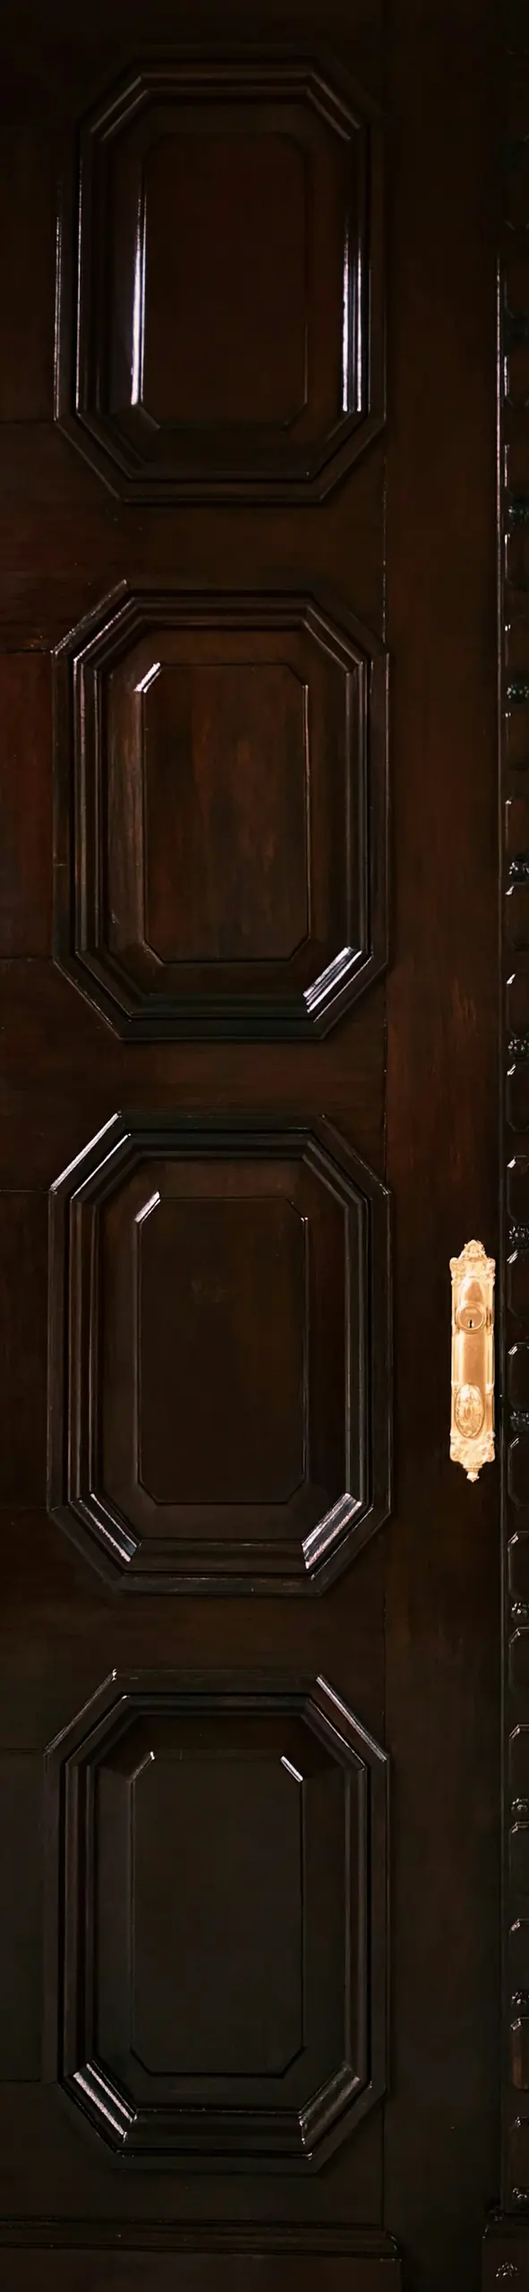
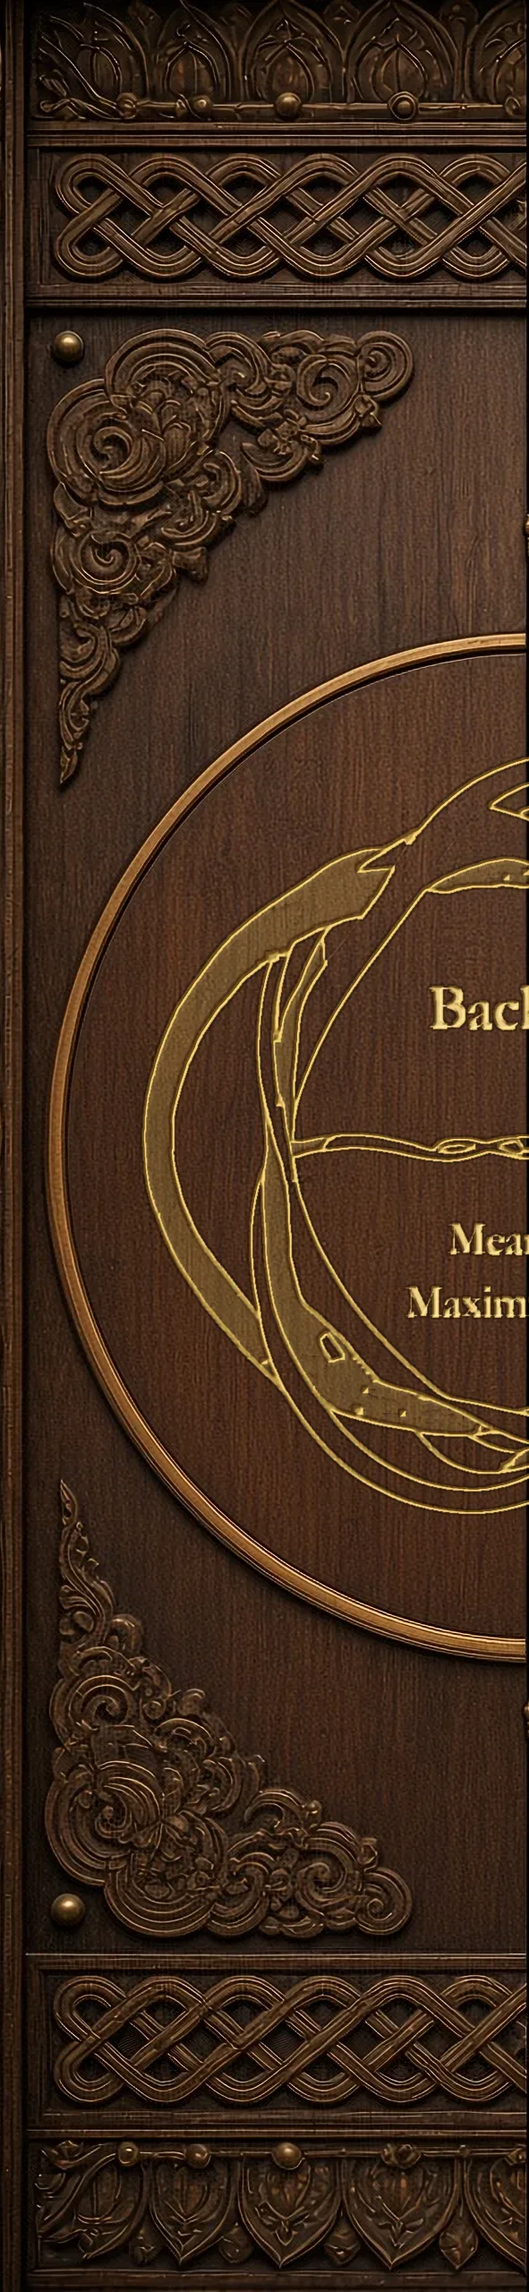
Holztür: bisherige KI-Grafik wiederherstellen (Nutzerkorrektur)
Die Eingangstür bleibt in der Fassung von master vor dem Stockfoto-Tausch, inklusive Logo im Bild. CSS-Ebene .tuer-logo entfernt. Bildnachweise und Tür-Credit nennen die Holztür als KI-Grafik, die Weg- und Kostenbilder weiter als Unsplash-Fotos.

diff --git a/public/tuer/texte.js b/public/tuer/texte.js
@@ -9,7 +9,7 @@ window.BTMM_TUER_TEXTE = {
     tuerP: "Wir lernen dich mit ein paar Fragen kennen und zeigen dir dann deinen Weg durch BtMM.",
     eintreten: "Eintreten",
     ohne: "Ohne Fragen zur Webseite",
-    bildCredit: "Fotos: Unsplash, freie Lizenz (Nachweise im Impressum)",
+    bildCredit: "Tür: KI-Grafik; Fotos: Unsplash, freie Lizenz (Nachweise im Impressum)",
     kopfName: "BtMM-KI", kopfSub: "fragt, du antwortest", loeschen: "Antworten löschen",
     ds: "Die BtMM-KI stellt dir ein paar Fragen, damit wir dir BtMM passend vorstellen können. Deine Antworten bleiben nur auf diesem Gerät, solange du kein Konto hast. Bitte keine Gesundheitsangaben. Du kannst jederzeit abbrechen und die Antworten löschen.",
     dsLink: "Datenschutz",
@@ -92,7 +92,7 @@ window.BTMM_TUER_TEXTE = {
       folgen: "Eine Gruppe wandert im Herbst auf einem laubbedeckten Waldweg, ein Hund läuft mit"
     },
     fotoLabel: "Foto",
-    bildCredit: "Fotos: Unsplash, freie Lizenz (Nachweise im Impressum)",
+    bildCredit: "Tür: KI-Grafik; Fotos: Unsplash, freie Lizenz (Nachweise im Impressum)",
     merkmale: {
       freund: ["freund", "freundin", "bekannt", "kollege", "kollegin", "familie", "mutter", "vater", "bruder", "schwester", "erzählt", "empfohlen", "empfehlung", "mitbewohn", "wg", "chor"],
       online: ["instagram", "internet", "google", "gesucht", "online", "social", "facebook", "tiktok", "youtube", "webseite", "website", "artikel", "zeitung", "podcast"],
@@ -117,7 +117,7 @@ window.BTMM_TUER_TEXTE = {
     tuerH1: "Step inside",
     tuerP: "We get to know you with a few questions and then show you your path through BtMM.",
     eintreten: "Enter", ohne: "To the website without questions",
-    bildCredit: "Photos: Unsplash, free licence (credits in the legal notice)",
+    bildCredit: "Door: AI graphic; Photos: Unsplash, free licence (credits in the legal notice)",
     kopfName: "BtMM AI", kopfSub: "asks, you answer", loeschen: "Delete answers",
     ds: "The BtMM AI asks you a few questions so that we can introduce BtMM to you in a way that suits you. Your answers stay only on this device as long as you do not have an account. Please do not share any health information. You can stop at any time and delete your answers.",
     dsLink: "Privacy",
@@ -194,7 +194,7 @@ window.BTMM_TUER_TEXTE = {
       folgen: "A group hiking along a leaf-covered forest path in autumn, a dog walking along"
     },
     fotoLabel: "Photo",
-    bildCredit: "Photos: Unsplash, free licence (credits in the legal notice)",
+    bildCredit: "Door: AI graphic; Photos: Unsplash, free licence (credits in the legal notice)",
     merkmale: {
       freund: ["friend", "buddy", "colleague", "coworker", "co-worker", "family", "mother", " mom", " mum", "father", " dad", "brother", "sister", "partner", "told me", "recommend", "word of mouth", "roommate", "flatmate", "neighbo"],
       online: ["instagram", "internet", "google", "searched", "online", "social media", "facebook", "tiktok", "youtube", "website", " web", "article", "newspaper", "podcast", "reddit", "linkedin"],
@@ -219,7 +219,7 @@ window.BTMM_TUER_TEXTE = {
     tuerH1: "Entre",
     tuerP: "Nous apprenons à te connaître avec quelques questions, puis nous te montrons ton chemin à travers BtMM.",
     eintreten: "Entrer", ohne: "Vers le site sans questions",
-    bildCredit: "Photos : Unsplash, licence libre (crédits dans les mentions légales)",
+    bildCredit: "Porte : graphique créé par IA ; Photos : Unsplash, licence libre (crédits dans les mentions légales)",
     kopfName: "IA BtMM", kopfSub: "pose les questions, tu réponds", loeschen: "Supprimer les réponses",
     ds: "L'IA de BtMM te pose quelques questions afin que nous puissions te présenter BtMM de façon adaptée. Tes réponses restent uniquement sur cet appareil tant que tu n'as pas de compte. Merci de ne donner aucune information de santé. Tu peux arrêter à tout moment et supprimer les réponses.",
     dsLink: "Protection des données",
@@ -296,7 +296,7 @@ window.BTMM_TUER_TEXTE = {
       folgen: "Un groupe marche sur un sentier forestier couvert de feuilles en automne, un chien les accompagne"
     },
     fotoLabel: "Photo",
-    bildCredit: "Photos : Unsplash, licence libre (crédits dans les mentions légales)",
+    bildCredit: "Porte : graphique créé par IA ; Photos : Unsplash, licence libre (crédits dans les mentions légales)",
     merkmale: {
       freund: [" ami", " amie", "copain", "copine", "collegue", "famille", " mere", " pere", " maman", " papa", "frere", "soeur", "m'a parle", "m'en a parle", "raconte", "recommand", "conseille", "bouche a oreille", "colocataire", "coloc", "voisin"],
       online: ["instagram", "internet", "google", "cherche", "en ligne", "reseaux sociaux", "facebook", "tiktok", "youtube", "site web", "site internet", "le site", "votre site", "ton site", "article", "journal", "podcast"],
@@ -321,7 +321,7 @@ window.BTMM_TUER_TEXTE = {
     tuerH1: "Pasa",
     tuerP: "Te conocemos con unas pocas preguntas y luego te mostramos tu camino por BtMM.",
     eintreten: "Entrar", ohne: "Ir a la web sin preguntas",
-    bildCredit: "Fotos: Unsplash, licencia libre (créditos en el aviso legal)",
+    bildCredit: "Puerta: gráfico de IA; Fotos: Unsplash, licencia libre (créditos en el aviso legal)",
     kopfName: "IA de BtMM", kopfSub: "pregunta, tú respondes", loeschen: "Borrar respuestas",
     ds: "La IA de BtMM te hace unas preguntas para que podamos presentarte BtMM de forma adecuada para ti. Tus respuestas se quedan solo en este dispositivo mientras no tengas una cuenta. Por favor, no indiques datos de salud. Puedes interrumpir en cualquier momento y borrar las respuestas.",
     dsLink: "Protección de datos",
@@ -398,7 +398,7 @@ window.BTMM_TUER_TEXTE = {
       folgen: "Un grupo camina por un sendero del bosque cubierto de hojas en otoño, un perro los acompaña"
     },
     fotoLabel: "Foto",
-    bildCredit: "Fotos: Unsplash, licencia libre (créditos en el aviso legal)",
+    bildCredit: "Puerta: gráfico de IA; Fotos: Unsplash, licencia libre (créditos en el aviso legal)",
     merkmale: {
       freund: ["amig", "colega", "companer", "familia", "madre", " mama", "padre", " papa", "herman", "me conto", "me hablo", "recomend", "boca a boca", "vecin", "conocid"],
       online: ["instagram", "internet", "google", "busque", "buscando", "en linea", "online", "redes sociales", "facebook", "tiktok", "youtube", "pagina web", "sitio web", " web", "articulo", "periodico", "podcast"],
@@ -423,7 +423,7 @@ window.BTMM_TUER_TEXTE = {
     tuerH1: "Entre",
     tuerP: "Conhecemos você com algumas perguntas e depois mostramos o seu caminho pelo BtMM.",
     eintreten: "Entrar", ohne: "Ir para o site sem perguntas",
-    bildCredit: "Fotos: Unsplash, licença livre (créditos nas informações legais)",
+    bildCredit: "Porta: gráfico de IA; Fotos: Unsplash, licença livre (créditos nas informações legais)",
     kopfName: "IA do BtMM", kopfSub: "pergunta, você responde", loeschen: "Apagar respostas",
     ds: "A IA do BtMM faz algumas perguntas a você para que possamos apresentar o BtMM de forma adequada a você. Suas respostas ficam apenas neste dispositivo enquanto você não tiver uma conta. Por favor, não informe dados de saúde. Você pode interromper a qualquer momento e apagar as respostas.",
     dsLink: "Proteção de dados",
@@ -500,7 +500,7 @@ window.BTMM_TUER_TEXTE = {
       folgen: "Um grupo caminha por um trilho florestal coberto de folhas no outono, um cão acompanha"
     },
     fotoLabel: "Foto",
-    bildCredit: "Fotos: Unsplash, licença livre (créditos nas informações legais)",
+    bildCredit: "Porta: gráfico de IA; Fotos: Unsplash, licença livre (créditos nas informações legais)",
     merkmale: {
       freund: ["amig", "colega", "familia", " mae", " pai ", "irma", "me contou", "me falou", "recomend", "indicou", "indicacao", "boca a boca", "vizinh", "conhecid"],
       online: ["instagram", "internet", "google", "pesquis", "procurei", "online", "redes sociais", "facebook", "tiktok", "youtube", " site", "artigo", "jornal", "podcast"],
@@ -525,7 +525,7 @@ window.BTMM_TUER_TEXTE = {
     tuerH1: "Входи",
     tuerP: "Мы познакомимся с тобой с помощью нескольких вопросов, а потом покажем твой путь по BtMM.",
     eintreten: "Войти", ohne: "На сайт без вопросов",
-    bildCredit: "Фото: Unsplash, свободная лицензия (авторы указаны в выходных данных)",
+    bildCredit: "Дверь: графика ИИ; Фото: Unsplash, свободная лицензия (авторы указаны в выходных данных)",
     kopfName: "ИИ BtMM", kopfSub: "спрашивает, ты отвечаешь", loeschen: "Удалить ответы",
     ds: "ИИ BtMM задаст тебе несколько вопросов, чтобы мы могли рассказать тебе о BtMM так, как подходит именно тебе. Твои ответы хранятся только на этом устройстве, пока у тебя нет аккаунта. Пожалуйста, не указывай сведения о здоровье. Ты можешь в любой момент прервать разговор и удалить ответы.",
     dsLink: "Защита данных",
@@ -602,7 +602,7 @@ window.BTMM_TUER_TEXTE = {
       folgen: "Группа идёт осенью по усыпанной листьями лесной тропе, рядом бежит собака"
     },
     fotoLabel: "Фото",
-    bildCredit: "Фото: Unsplash, свободная лицензия (авторы указаны в выходных данных)",
+    bildCredit: "Дверь: графика ИИ; Фото: Unsplash, свободная лицензия (авторы указаны в выходных данных)",
     merkmale: {
       freund: ["друг", "друз", "подруг", "знаком", "коллег", "семья", "семьи", "мама", "мать", "папа", "отец", "брат", "сестр", "рассказал", "рассказыв", "посовет", "рекоменд", "сосед"],
       online: ["инстаграм", "instagram", "интернет", "гугл", "google", "яндекс", "нашел", "нашла", "искал", "онлайн", "соцсет", "фейсбук", "телеграм", "тикток", "ютуб", "youtube", "сайт", "статья", "статью", "статье", "газет", "подкаст"],
@@ -627,7 +627,7 @@ window.BTMM_TUER_TEXTE = {
     tuerH1: "تفضّل بالدخول",
     tuerP: "نتعرّف عليك ببعض الأسئلة، ثم نريك طريقك عبر BtMM.",
     eintreten: "ادخل", ohne: "إلى الموقع بدون أسئلة",
-    bildCredit: "الصور: Unsplash بترخيص حر (أسماء المصوّرين في بيانات الموقع)",
+    bildCredit: "الباب: رسم بالذكاء الاصطناعي؛ الصور: Unsplash بترخيص حر (أسماء المصوّرين في بيانات الموقع)",
     kopfName: "ذكاء BtMM الاصطناعي", kopfSub: "يسأل، وأنت تجيب", loeschen: "حذف الإجابات",
     ds: "يطرح عليك الذكاء الاصطناعي لـBtMM بعض الأسئلة حتى نتمكن من تعريفك بـBtMM بما يناسبك. تبقى إجاباتك على هذا الجهاز فقط ما دام ليس لديك حساب. يُرجى عدم ذكر أي معلومات صحية. يمكنك التوقف في أي وقت وحذف الإجابات.",
     dsLink: "حماية البيانات",
@@ -704,7 +704,7 @@ window.BTMM_TUER_TEXTE = {
       folgen: "مجموعة تمشي في الخريف على ممر غابة مغطى بالأوراق ويرافقها كلب"
     },
     fotoLabel: "صورة",
-    bildCredit: "الصور: Unsplash بترخيص حر (أسماء المصوّرين في بيانات الموقع)",
+    bildCredit: "الباب: رسم بالذكاء الاصطناعي؛ الصور: Unsplash بترخيص حر (أسماء المصوّرين في بيانات الموقع)",
     merkmale: {
       freund: ["صديق", "اصدقاء", "زميل", "عائلة", "عائلتي", "اسرتي", "والدتي", "والدي", "امي ", "ابي ", "اخي ", "اختي", "اخبرني", "اخبرتني", "حكى لي", "نصحني", "اوصى", "توصية", "جاري", "جارتي"],
       online: ["انستغرام", "انستجرام", "instagram", "الانترنت", "انترنت", "جوجل", "غوغل", "google", "بحثت", "اونلاين", "وسائل التواصل", "فيسبوك", "تيك توك", "يوتيوب", "موقع", "مقال", "جريدة", "صحيفة", "بودكاست"],
@@ -729,7 +729,7 @@ window.BTMM_TUER_TEXTE = {
     tuerH1: "अंदर आइए",
     tuerP: "हम कुछ सवालों से आपको जानेंगे और फिर आपको BtMM में आपका रास्ता दिखाएँगे।",
     eintreten: "प्रवेश करें", ohne: "बिना सवालों के वेबसाइट पर जाएँ",
-    bildCredit: "फ़ोटो: Unsplash, मुक्त लाइसेंस (फ़ोटोग्राफ़रों के नाम इम्प्रेसम में)",
+    bildCredit: "द्वार: एआई-ग्राफ़िक; फ़ोटो: Unsplash, मुक्त लाइसेंस (फ़ोटोग्राफ़रों के नाम इम्प्रेसम में)",
     kopfName: "BtMM-एआई", kopfSub: "पूछता है, आप जवाब देते हैं", loeschen: "जवाब मिटाएँ",
     ds: "BtMM-एआई आपसे कुछ सवाल पूछता है, ताकि हम आपको आपके अनुरूप BtMM से परिचित करा सकें। जब तक आपका कोई खाता नहीं है, आपके जवाब सिर्फ़ इसी डिवाइस पर रहते हैं। कृपया स्वास्थ्य से जुड़ी कोई जानकारी न दें। आप कभी भी रुक सकते हैं और जवाब मिटा सकते हैं।",
     dsLink: "डेटा सुरक्षा",
@@ -806,7 +806,7 @@ window.BTMM_TUER_TEXTE = {
       folgen: "पतझड़ में पत्तों से ढके जंगल के रास्ते पर एक समूह पैदल चल रहा है, साथ में एक कुत्ता"
     },
     fotoLabel: "फ़ोटो",
-    bildCredit: "फ़ोटो: Unsplash, मुक्त लाइसेंस (फ़ोटोग्राफ़रों के नाम इम्प्रेसम में)",
+    bildCredit: "द्वार: एआई-ग्राफ़िक; फ़ोटो: Unsplash, मुक्त लाइसेंस (फ़ोटोग्राफ़रों के नाम इम्प्रेसम में)",
     merkmale: {
       freund: ["दोस्त", "मित्र", "सहकर्मी", "परिवार", "माँ", "मां", "पिता", "पापा", "भाई", "बहन", "बताया", "सलाह", "सिफारिश", "सिफ़ारिश", "पड़ोसी", "friend"],
       online: ["इंस्टाग्राम", "instagram", "इंटरनेट", "internet", "गूगल", "google", "खोजा", "ऑनलाइन", "online", "सोशल मीडिया", "फेसबुक", "यूट्यूब", "youtube", "वेबसाइट", "लेख", "अख़बार", "अखबार", "पॉडकास्ट"],
@@ -831,7 +831,7 @@ window.BTMM_TUER_TEXTE = {
     tuerH1: "ভেতরে আসুন",
     tuerP: "কয়েকটি প্রশ্নের মাধ্যমে আমরা আপনাকে জানব, তারপর BtMM-এ আপনার পথ দেখাব।",
     eintreten: "প্রবেশ করুন", ohne: "প্রশ্ন ছাড়াই ওয়েবসাইটে যান",
-    bildCredit: "ছবি: Unsplash, মুক্ত লাইসেন্স (আলোকচিত্রীদের নাম ইমপ্রেসামে)",
+    bildCredit: "দরজা: এআই-গ্রাফিক; ছবি: Unsplash, মুক্ত লাইসেন্স (আলোকচিত্রীদের নাম ইমপ্রেসামে)",
     kopfName: "BtMM এআই", kopfSub: "প্রশ্ন করে, আপনি উত্তর দেন", loeschen: "উত্তর মুছুন",
     ds: "BtMM-এর এআই আপনাকে কয়েকটি প্রশ্ন করে, যাতে আমরা আপনার উপযোগী করে আপনাকে BtMM-এর পরিচয় দিতে পারি। যতক্ষণ আপনার কোনো অ্যাকাউন্ট নেই, আপনার উত্তরগুলো শুধু এই ডিভাইসেই থাকে। অনুগ্রহ করে স্বাস্থ্য-সংক্রান্ত কোনো তথ্য দেবেন না। আপনি যেকোনো সময় থামতে এবং উত্তরগুলো মুছে ফেলতে পারেন।",
     dsLink: "ডেটা সুরক্ষা",
@@ -908,7 +908,7 @@ window.BTMM_TUER_TEXTE = {
       folgen: "শরতে পাতায় ঢাকা বনপথে একদল মানুষ হাঁটছে, সঙ্গে একটি কুকুর"
     },
     fotoLabel: "ছবি",
-    bildCredit: "ছবি: Unsplash, মুক্ত লাইসেন্স (আলোকচিত্রীদের নাম ইমপ্রেসামে)",
+    bildCredit: "দরজা: এআই-গ্রাফিক; ছবি: Unsplash, মুক্ত লাইসেন্স (আলোকচিত্রীদের নাম ইমপ্রেসামে)",
     merkmale: {
       freund: ["বন্ধু", "বান্ধবী", "সহকর্মী", "পরিবার", "আমার মা", "মায়ের", "বাবা", "ভাই", "বোন", "বলেছে", "বলেছিল", "বলেছেন", "পরামর্শ", "সুপারিশ", "প্রতিবেশী"],
       online: ["ইনস্টাগ্রাম", "instagram", "ইন্টারনেট", "গুগল", "google", "খুঁজ", "অনলাইন", "online", "সোশ্যাল মিডিয়া", "ফেসবুক", "ইউটিউব", "youtube", "ওয়েবসাইট", "প্রবন্ধ", "নিবন্ধ", "খবরের কাগজ", "পত্রিকা", "পডকাস্ট"],
@@ -933,7 +933,7 @@ window.BTMM_TUER_TEXTE = {
     tuerH1: "お入りください",
     tuerP: "いくつかの質問であなたのことを知り、そのあとBtMMを巡るあなたの道をご案内します。",
     eintreten: "入る", ohne: "質問なしでウェブサイトへ",
-    bildCredit: "写真：Unsplash（フリーライセンス）。撮影者は法的表示ページに記載",
+    bildCredit: "扉：AIグラフィック；写真：Unsplash（フリーライセンス）。撮影者は法的表示ページに記載",
     kopfName: "BtMM AI", kopfSub: "AIが質問し、あなたが答えます", loeschen: "回答を削除",
     ds: "BtMMのAIが、あなたに合った形でBtMMをご紹介できるよう、いくつか質問します。アカウントをお持ちでない間、回答はこの端末にのみ残ります。健康に関する情報は入力しないでください。いつでも中断し、回答を削除できます。",
     dsLink: "データ保護",
@@ -1010,7 +1010,7 @@ window.BTMM_TUER_TEXTE = {
       folgen: "秋、落ち葉に覆われた森の道を歩くグループ、犬も一緒"
     },
     fotoLabel: "写真",
-    bildCredit: "写真：Unsplash（フリーライセンス）。撮影者は法的表示ページに記載",
+    bildCredit: "扉：AIグラフィック；写真：Unsplash（フリーライセンス）。撮影者は法的表示ページに記載",
     merkmale: {
       freund: ["友達", "友だち", "友人", "知人", "知り合い", "同僚", "家族", "母", "父", "兄", "姉", "弟", "妹", "聞いた", "教えてもら", "勧め", "すすめ", "紹介", "口コミ", "ルームメイト"],
       online: ["インスタ", "instagram", "インターネット", "ネット", "グーグル", "google", "検索", "オンライン", "sns", "フェイスブック", "ティックトック", "ユーチューブ", "youtube", "ウェブ", "サイト", "ホームページ", "記事", "新聞", "ポッドキャスト"],
@@ -1035,7 +1035,7 @@ window.BTMM_TUER_TEXTE = {
     tuerH1: "请进",
     tuerP: "我们通过几个问题认识你，然后为你展示一条穿越 BtMM 的路。",
     eintreten: "进入", ohne: "不回答问题，直接进入网站",
-    bildCredit: "照片：Unsplash，免费授权（摄影师信息见法律声明）",
+    bildCredit: "门：人工智能图形；照片：Unsplash，免费授权（摄影师信息见法律声明)",
     kopfName: "BtMM 人工智能", kopfSub: "它来提问，你来回答", loeschen: "删除回答",
     ds: "BtMM 人工智能会问你几个问题，以便我们以适合你的方式向你介绍 BtMM。在你没有账户之前，你的回答只保存在这台设备上。请不要提供任何健康信息。你可以随时中止并删除回答。",
     dsLink: "数据保护",
@@ -1112,7 +1112,7 @@ window.BTMM_TUER_TEXTE = {
       folgen: "秋天，一群人走在落叶覆盖的森林小路上，还有一只狗同行"
     },
     fotoLabel: "照片",
-    bildCredit: "照片：Unsplash，免费授权（摄影师信息见法律声明）",
+    bildCredit: "门：人工智能图形；照片：Unsplash，免费授权（摄影师信息见法律声明)",
     merkmale: {
       freund: ["朋友", "熟人", "同事", "家人", "妈妈", "母亲", "爸爸", "父亲", "哥哥", "姐姐", "弟弟", "妹妹", "告诉我", "跟我说", "推荐", "介绍", "口碑", "室友", "邻居"],
       online: ["instagram", "网上", "互联网", "网络", "谷歌", "google", "百度", "搜索", "在线", "社交媒体", "微信", "微博", "小红书", "抖音", "脸书", "youtube", "网站", "文章", "报纸", "播客"],

diff --git a/app/[locale]/(seiten)/impressum/page.tsx b/app/[locale]/(seiten)/impressum/page.tsx
@@ -12,47 +12,47 @@ const KLEINUNTERNEHMER_SATZ =
 const BILD_HINWEIS: Record<string, { titel: string; text: string }> = {
   de: {
     titel: 'Bildnachweise',
-    text: 'Fotos: Unsplash, freie Lizenz. Fotografinnen und Fotografen siehe Bildnachweise unten.',
+    text: 'Fotos: Unsplash, freie Lizenz. Fotografinnen und Fotografen siehe Bildnachweise unten. Die Grafik der Eingangstür wurde mit KI erstellt.',
   },
   en: {
     titel: 'Image credits',
-    text: 'Photos: Unsplash, free licence. Photographers are listed in the credits below.',
+    text: 'Photos: Unsplash, free licence. Photographers are listed in the credits below. The graphic of the entrance door was created with AI.',
   },
   fr: {
     titel: 'Crédits photo',
-    text: 'Photos : Unsplash, licence libre. Les photographes sont indiqués dans les crédits ci-dessous.',
+    text: 'Photos : Unsplash, licence libre. Les photographes sont indiqués dans les crédits ci-dessous. Le graphisme de la porte d’entrée a été créé par IA.',
   },
   es: {
     titel: 'Créditos de las imágenes',
-    text: 'Fotos: Unsplash, licencia libre. Los fotógrafos figuran en los créditos de abajo.',
+    text: 'Fotos: Unsplash, licencia libre. Los fotógrafos figuran en los créditos de abajo. El gráfico de la puerta de entrada se creó con IA.',
   },
   pt: {
     titel: 'Créditos das imagens',
-    text: 'Fotos: Unsplash, licença livre. Os fotógrafos constam dos créditos abaixo.',
+    text: 'Fotos: Unsplash, licença livre. Os fotógrafos constam dos créditos abaixo. O gráfico da porta de entrada foi criado com IA.',
   },
   ru: {
     titel: 'Авторы изображений',
-    text: 'Фото: Unsplash, свободная лицензия. Авторы фотографий указаны в списке ниже.',
+    text: 'Фото: Unsplash, свободная лицензия. Авторы фотографий указаны в списке ниже. Графика входной двери создана с помощью ИИ.',
   },
   ar: {
     titel: 'حقوق الصور',
-    text: 'الصور: Unsplash بترخيص حر. أسماء المصوّرين مذكورة في القائمة أدناه.',
+    text: 'الصور: Unsplash بترخيص حر. أسماء المصوّرين مذكورة في القائمة أدناه. رُسمت بوابة المدخل بالذكاء الاصطناعي.',
   },
   hi: {
     titel: 'चित्र-श्रेय',
-    text: 'फ़ोटो: Unsplash, मुक्त लाइसेंस। फ़ोटोग्राफ़रों के नाम नीचे दी गई सूची में हैं।',
+    text: 'फ़ोटो: Unsplash, मुक्त लाइसेंस। फ़ोटोग्राफ़रों के नाम नीचे दी गई सूची में हैं। प्रवेश-द्वार का ग्राफ़िक एआई से बनाया गया है।',
   },
   bn: {
     titel: 'ছবির কৃতজ্ঞতা',
-    text: 'ছবি: Unsplash, মুক্ত লাইসেন্স। আলোকচিত্রীদের নাম নিচের তালিকায় আছে।',
+    text: 'ছবি: Unsplash, মুক্ত লাইসেন্স। আলোকচিত্রীদের নাম নিচের তালিকায় আছে। প্রবেশদ্বারের গ্রাফিক এআই দিয়ে তৈরি।',
   },
   ja: {
     titel: '画像クレジット',
-    text: '写真：Unsplash（フリーライセンス）。撮影者は下の一覧に記載しています。',
+    text: '写真：Unsplash（フリーライセンス）。撮影者は下の一覧に記載しています。入口の扉のグラフィックはAIで作成されています。',
   },
   zh: {
     titel: '图片来源',
-    text: '照片：Unsplash，免费授权。摄影师信息见下方列表。',
+    text: '照片：Unsplash，免费授权。摄影师信息见下方列表。入口门的图形由人工智能制作。',
   },
 }
 

diff --git a/public/tuer/index.html b/public/tuer/index.html
@@ -11,8 +11,8 @@
 html.ki-an #tuer{display:none!important}
 html.ki-an #dialog{display:flex!important}
 </style>
-<link rel="stylesheet" href="/tuer/tuer.css?v=20261127s">
-<script src="/tuer/ki-schalter.js?v=20261127s"></script>
+<link rel="stylesheet" href="/tuer/tuer.css?v=20261127t">
+<script src="/tuer/ki-schalter.js?v=20261127t"></script>
 <script>
 if (window.BTMM_TUER_KI_AN) document.documentElement.classList.add('ki-an');
 </script>
@@ -33,7 +33,6 @@ if (window.BTMM_TUER_KI_AN) document.documentElement.classList.add('ki-an');
       <source type="image/webp" srcset="/tuer/bilder/holz/mobil-rechts.webp">
       <img src="/tuer/bilder/holz/mobil-rechts.jpg" alt="" width="591" height="2560">
     </picture></div>
-    <div class="tuer-logo"><img src="/tuer/bilder/logo-tuer.webp" alt="" width="768" height="768"></div>
   </div>
   <div class="tuer-band">
     <span class="nur-sr">BtMM – Back to Meaning Maximization</span>
@@ -43,7 +42,7 @@ if (window.BTMM_TUER_KI_AN) document.documentElement.classList.add('ki-an');
       <button class="knopf hell" id="eintreten" type="button" data-t="eintreten">Eintreten</button>
       <p class="tuer-ohne"><a href="/de" class="ohne" data-t="ohne" data-ort="start">Ohne Fragen zur Webseite</a></p>
     </div>
-    <p class="bild-credit"><a href="/de/impressum#bildnachweise" data-t="bildCredit" data-ort="/impressum#bildnachweise">Fotos: Unsplash, freie Lizenz (Nachweise im Impressum)</a></p>
+    <p class="bild-credit"><a href="/de/impressum#bildnachweise" data-t="bildCredit" data-ort="/impressum#bildnachweise">Tür: KI-Grafik; Fotos: Unsplash, freie Lizenz (Nachweise im Impressum)</a></p>
     <noscript><p class="tuer-ohne">JavaScript ist aus. <a href="/de?ohne-tuer=1">Zur Webseite</a> · <a href="/en?ohne-tuer=1">Continue to the website</a></p></noscript>
   </div>
 </main>
@@ -96,16 +95,16 @@ if (window.BTMM_TUER_KI_AN) document.documentElement.classList.add('ki-an');
     <a class="knopf" href="/de" id="kennenlernen" data-t="starten">Kennenlernen starten</a>
     <a class="leise ohne" href="/de" id="zur-start" data-t="zurStart" data-ort="start">Zur Startseite</a>
   </p>
-  <p class="bild-credit"><a href="/de/impressum#bildnachweise" data-t="bildCredit" data-ort="/impressum#bildnachweise">Fotos: Unsplash, freie Lizenz (Nachweise im Impressum)</a></p>
+  <p class="bild-credit"><a href="/de/impressum#bildnachweise" data-t="bildCredit" data-ort="/impressum#bildnachweise">Tür: KI-Grafik; Fotos: Unsplash, freie Lizenz (Nachweise im Impressum)</a></p>
 </main>
-<script src="/tuer/texte.js?v=20261127s"></script>
-<script src="/tuer/texte-luecken.js?v=20261127s"></script>
-<script src="/tuer/texte-r3.js?v=20261127s"></script>
-<script src="/tuer/texte-r4.js?v=20261127s"></script>
-<script src="/tuer/pfad.js?v=20261127s"></script>
-<script src="/tuer/tuer.js?v=20261127s"></script>
-<script src="/tuer/texte-ki.js?v=20261127s"></script>
-<script src="/tuer/tuer-ki.js?v=20261127s"></script>
+<script src="/tuer/texte.js?v=20261127t"></script>
+<script src="/tuer/texte-luecken.js?v=20261127t"></script>
+<script src="/tuer/texte-r3.js?v=20261127t"></script>
+<script src="/tuer/texte-r4.js?v=20261127t"></script>
+<script src="/tuer/pfad.js?v=20261127t"></script>
+<script src="/tuer/tuer.js?v=20261127t"></script>
+<script src="/tuer/texte-ki.js?v=20261127t"></script>
+<script src="/tuer/tuer-ki.js?v=20261127t"></script>
 <script src="/mehr-erfahren.js" defer></script>
 </body>
 </html>

diff --git a/public/tuer/tuer.css b/public/tuer/tuer.css
@@ -34,11 +34,6 @@ a{color:var(--lila)}
 .fluegel.links img{object-position:right var(--tuer-y)}
 .fluegel.rechts{right:0;transform-origin:right center}
 .fluegel.rechts img{object-position:left var(--tuer-y)}
-/* Logo liegt als eigene Ebene über dem Foto der Holztür (nicht ins Foto eingebrannt) */
-.tuer-logo{position:absolute;left:50%;top:var(--tuer-y);width:min(60vh,78vw);aspect-ratio:1/1;transform:translate(-50%,-50%);display:grid;place-items:center;transition:opacity .5s}
-.tuer-logo::before{content:"";position:absolute;inset:-8%;border-radius:50%;background:radial-gradient(circle,rgba(20,8,24,.74) 0%,rgba(20,8,24,.58) 52%,rgba(20,8,24,0) 72%)}
-.tuer-logo img{position:relative;width:100%;height:100%;object-fit:contain;display:block}
-.oeffnet .tuer-logo{opacity:0}
 .tuer-band{position:absolute;left:0;right:0;bottom:0;z-index:2;text-align:center;background:var(--tuer-band-grund);backdrop-filter:blur(6px);-webkit-backdrop-filter:blur(6px);border-top:1px solid var(--tuer-band-linie);border-bottom:1px solid var(--tuer-band-linie);border-left:0;border-right:0;padding:14px 22px calc(12px + env(safe-area-inset-bottom));max-height:34%}
 .tuer-band h1{font-size:40px;margin:0 0 6px;color:var(--btmm-logo-text-glow);font-weight:600;line-height:1.1}
 .tuer-band p:not(.tuer-ohne):not(.bild-credit){font-size:18px;color:#faf9f9;margin:0 auto 10px;max-width:30em;line-height:1.4;opacity:1}

diff --git a/content/bildnachweise.md b/content/bildnachweise.md
@@ -1,6 +1,6 @@
 # Bildnachweise
 
-Stand 27.11.2026. Alle Fotos stehen unter der Unsplash-Lizenz (https://unsplash.com/license): kostenlos nutzbar, auch gewerblich, ohne Namensnennungspflicht. Wir nennen die Fotografinnen und Fotografen trotzdem. Es handelt sich um echte Fotos.
+Stand 27.11.2026. Die Fotos stehen unter der Unsplash-Lizenz (https://unsplash.com/license): kostenlos nutzbar, auch gewerblich, ohne Namensnennungspflicht. Wir nennen die Fotografinnen und Fotografen trotzdem. Es handelt sich um echte Fotos. Die Grafik der Eingangstür wurde mit KI erstellt.
 
 Diese Datei wird aus `data/bildnachweise.json` erzeugt (`node scripts/bildnachweise-md.mjs`). Nicht von Hand ändern.
 
@@ -20,7 +20,6 @@ Diese Datei wird aus `data/bildnachweise.json` erzeugt (`node scripts/bildnachwe
 | `public/tuer/bilder/weg/vorbei.jpg`<br>`public/tuer/bilder/weg/vorbei.webp` | Martin Podsiad | https://unsplash.com/photos/a-couple-of-people-that-are-standing-on-some-steps-CqNMyQ_pvQo | Unsplash-Lizenz | 27.11.2026 |
 | `public/tuer/bilder/weg/anpacken.jpg`<br>`public/tuer/bilder/weg/anpacken.webp` | Nate Johnston | https://unsplash.com/photos/a-group-of-men-working-on-a-project-TltGIe9PK4Y | Unsplash-Lizenz | 27.11.2026 |
 | `public/tuer/bilder/weg/folgen.jpg`<br>`public/tuer/bilder/weg/folgen.webp` | Ashim D’Silva | https://unsplash.com/photos/people-walking-on-forest-during-daytime-oRuqQX_kFDA | Unsplash-Lizenz | 27.11.2026 |
-| `public/tuer/bilder/holz/desktop-links.jpg`<br>`public/tuer/bilder/holz/desktop-links.webp`<br>`public/tuer/bilder/holz/desktop-rechts.jpg`<br>`public/tuer/bilder/holz/desktop-rechts.webp`<br>`public/tuer/bilder/holz/mobil-links.jpg`<br>`public/tuer/bilder/holz/mobil-links.webp`<br>`public/tuer/bilder/holz/mobil-rechts.jpg`<br>`public/tuer/bilder/holz/mobil-rechts.webp` | Isabelle Farinelli Silva | https://unsplash.com/photos/a-close-up-of-a-wooden-door-with-a-handle-bIG0v7GnQVM | Unsplash-Lizenz | 27.11.2026 |
 | `public/images/kosten-feld.jpg` | Jill Dimond | https://unsplash.com/photos/the-sun-is-shining-over-a-field-of-tall-grass-DzD5N4sghlc | Unsplash-Lizenz | 27.11.2026 |
 
 Verwendung und Bearbeitung:
@@ -37,8 +36,15 @@ Verwendung und Bearbeitung:
 - weg-vorbei: Tür, Kennenlern-Weg: Motiv „Vorbeikommen“. Veröffentlicht auf Unsplash am 14.10.2024. Zuschnitt auf 16:9, auf 1280×720 verkleinert, komprimiert.
 - weg-anpacken: Tür, Kennenlern-Weg: Motiv „Anpacken“. Veröffentlicht auf Unsplash am 28.09.2021. Zuschnitt auf 16:9, auf 1280×720 verkleinert, komprimiert.
 - weg-folgen: Tür, Kennenlern-Weg: Motiv „Folgen“. Veröffentlicht auf Unsplash am 28.04.2016. Zuschnitt auf 16:9, auf 1280×720 verkleinert, komprimiert.
-- tuer-holz: Tür, Eingangsbild (Holztür); das Logo liegt als eigene Ebene darüber. Veröffentlicht auf Unsplash am 27.08.2023. Zuschnitt, in der Mitte in linken und rechten Flügel geteilt (Desktop 1280×1600, mobil 591×2560), komprimiert.
 - kosten-feld: Seite „Kosten“, Kopfbild. Veröffentlicht auf Unsplash am 30.08.2024. Zuschnitt auf 16:9, auf 1920×1080 verkleinert, komprimiert.
+
+## Grafik der Eingangstür
+
+Die Grafik der Eingangstür (Holztür) wurde mit KI erstellt. Sie bleibt in der Fassung, die vor dem Austausch der Weg- und Kostenbilder im Einsatz war. Das Logo ist Teil der Grafik.
+
+| Datei | Hinweis |
+| --- | --- |
+| `public/tuer/bilder/holz/desktop-links.jpg`<br>`public/tuer/bilder/holz/desktop-links.webp`<br>`public/tuer/bilder/holz/desktop-rechts.jpg`<br>`public/tuer/bilder/holz/desktop-rechts.webp`<br>`public/tuer/bilder/holz/mobil-links.jpg`<br>`public/tuer/bilder/holz/mobil-links.webp`<br>`public/tuer/bilder/holz/mobil-rechts.jpg`<br>`public/tuer/bilder/holz/mobil-rechts.webp` | Grafik der Eingangstür, erstellt mit KI. Die Dateien entsprechen dem Stand vor dem Austausch der Weg- und Kostenbilder (27.11.2026). |
 
 ## Eigene Bilder und Marke
 
@@ -48,7 +54,6 @@ Verwendung und Bearbeitung:
 | `public/images/johannes-mit-hund.webp` | Eigenes Foto des Betreibers |
 | `public/tuer/bilder/logo.png` | Eigene Marke BtMM (Logo) |
 | `public/tuer/bilder/logo-glow-schrift-weiss.png` | Eigene Marke BtMM (Logo) |
-| `public/tuer/bilder/logo-tuer.webp` | Eigene Marke BtMM (Logo), aus public/logo-glow-schrift-weiss.png abgeleitet |
 | `public/infinity-dark.png` | Eigene Marke BtMM (Logo bzw. Vorschaubild mit Logo) |
 | `public/infinity-gold.png` | Eigene Marke BtMM (Logo bzw. Vorschaubild mit Logo) |
 | `public/logo-glow-schrift-weiss.png` | Eigene Marke BtMM (Logo bzw. Vorschaubild mit Logo) |

diff --git a/docs/tuer-weg-bilder-HERKUNFT.md b/docs/tuer-weg-bilder-HERKUNFT.md
@@ -1,10 +1,10 @@
 # Tür-Weg-Bilder: Herkunft
 
-Stand 27.11.2026. Die früheren KI-Bilder sind durch echte Stockfotos ersetzt (Nutzerwunsch 27.11.2026: realistische, passende Stockfotos statt KI-Optik).
+Stand 27.11.2026. Die früheren KI-Bilder der Tür-Weg-Motive und des Kosten-Kopfbilds sind durch echte Stockfotos ersetzt (Nutzerwunsch 27.11.2026). Die Grafik der Eingangstür (Holztür) bleibt in der bisherigen Fassung, inklusive Logo im Bild (Nutzerkorrektur 27.11.2026).
 
 - Quelle: nur Unsplash (Unsplash-Lizenz). Kein Konto, kein API-Key, kein Geld, keine KI-Bilder, kein Unsplash+.
 - Nachweis je Bild (Fotograf, Quelle-URL, Lizenz, Abrufdatum): `data/bildnachweise.json` (einzige Quelle), daraus erzeugt `content/bildnachweise.md` (`node scripts/bildnachweise-md.mjs`). Die Liste steht auch im Impressum unter „Bildnachweise“.
-- Dateien: `public/tuer/bilder/weg/<motiv>.jpg|webp` (12 Motive, 1280×720), `public/tuer/bilder/holz/*` (Holztür, Logo als CSS-Ebene), `public/images/kosten-feld.jpg` (1920×1080).
+- Dateien: `public/tuer/bilder/weg/<motiv>.jpg|webp` (12 Motive, 1280×720), `public/tuer/bilder/holz/*` (Holztür, KI-Grafik, Logo im Bild), `public/images/kosten-feld.jpg` (1920×1080).
 - Auf der Weg-Seite steht je Bild „Foto: <Name> / Unsplash“ (`fotoLabel` in `texte.js`, Name aus `FOTO` in `pfad.js`).
 - Alt-Texte: deutsch beschreibend (SEO), in allen 11 Sprachen übersetzt (`alt` in `texte.js`), ohne „KI“-Präfix.
 - Neues Bild einbauen: Foto auf Unsplash wählen (keine Unsplash+-Fotos, keine Fotos mit Hinweis auf KI-Erzeugung, möglichst mit Kameradaten), zuschneiden, komprimieren, Eintrag in `data/bildnachweise.json` und `FOTO` in `pfad.js` ergänzen, Markdown neu erzeugen. Der Test `test/bildnachweise.test.mjs` prüft, dass jedes Bild einen Eintrag hat.

diff --git a/public/tuer/bilder/holz/LIESMICH.md b/public/tuer/bilder/holz/LIESMICH.md
@@ -1,9 +1,10 @@
-# Tür-Bilder (Foto einer dunklen Holztür, Logo als eigene Ebene)
+# Tür-Bilder (V4 Teak, Logo als Hauptmotiv)
 
-Stand 27.11.2026: Echtes Foto statt der früheren KI-Grafik. Das Logo ist nicht im Foto, sondern liegt in `public/tuer/index.html` als `.tuer-logo` über der Tür (siehe `tuer.css`) und blendet beim Öffnen aus.
+Stand: V4 Teak mit Gold-Logo. Dateinamen, Formate und Maße entsprechen den früheren Platzhaltern, damit HTML-Pfade unverändert bleiben.
 
-- Foto: Isabelle Farinelli Silva, Unsplash, https://unsplash.com/photos/a-close-up-of-a-wooden-door-with-a-handle-bIG0v7GnQVM (Unsplash-Lizenz). Nachweis in `content/bildnachweise.md`.
-- Zuschnitt aus dem Hochformat-Foto, in der Mitte geteilt (Doppeltür): Dateinamen, Formate und Maße wie vorher, damit die HTML-Pfade unverändert bleiben.
 - mobil: 1182×2560, Flügel 591×2560
 - desktop: 2560×1600, Flügel 1280×1600
-- Nur die zum Viewport passende Flügel-Datei links und rechts wird geladen (WebP, JPG als Fallback im `<picture>`).
+
+Ausgeliefert unverändert (XMP `compositeWithTrainedAlgorithmicMedia` bleibt erhalten, kein Strip). Nur die zum Viewport passende Flügel-Datei links und rechts wird geladen (WebP, JPG als Fallback im `<picture>`). Unbenutzte Gesamtbilder (`mobil.*`, `desktop.*`) sind nicht im Repo.
+
+Quelle: Design-Paket `tuer-holz-ornament-2026-11-21`, Variante V4 Teak-Logo / Fassung Gold (21.11.2026).
